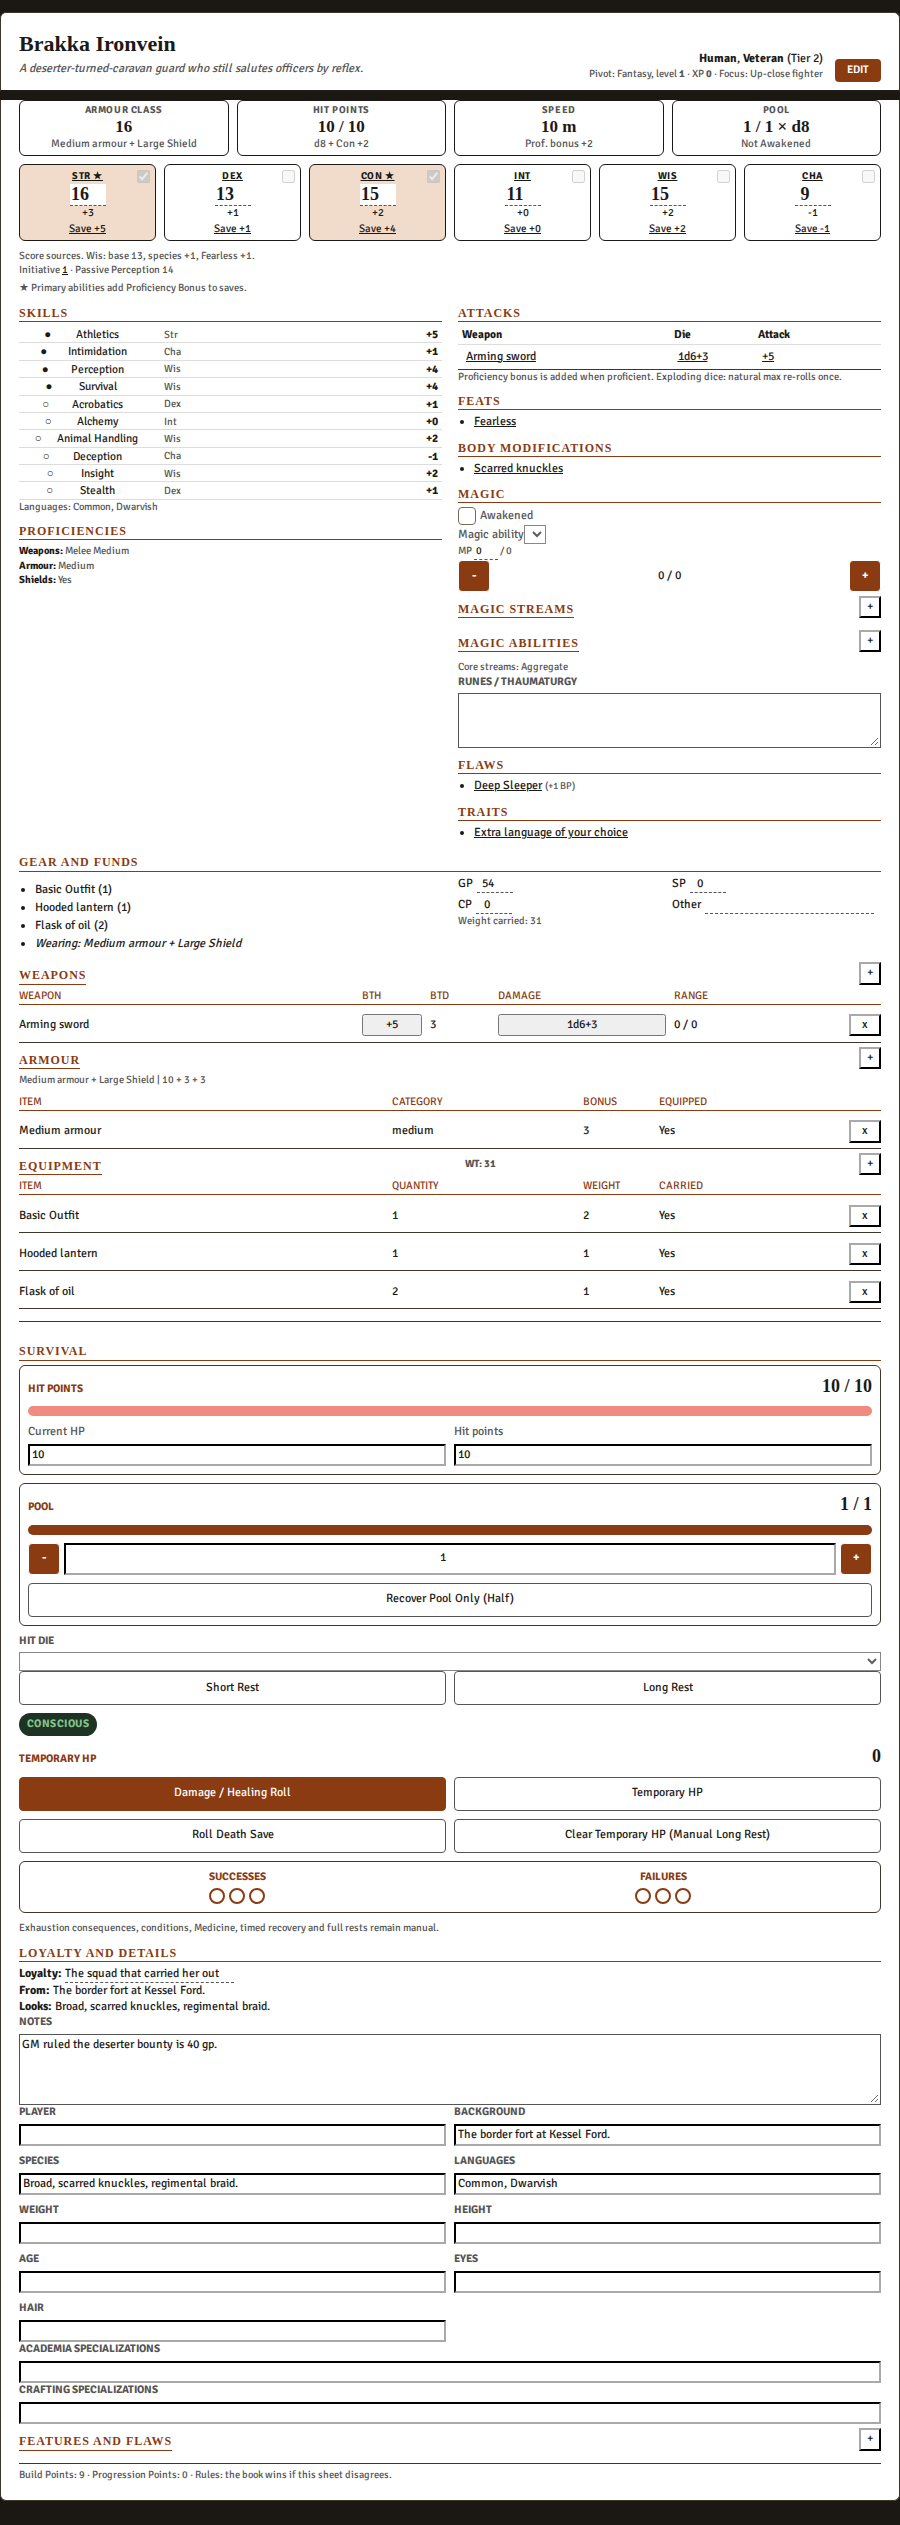
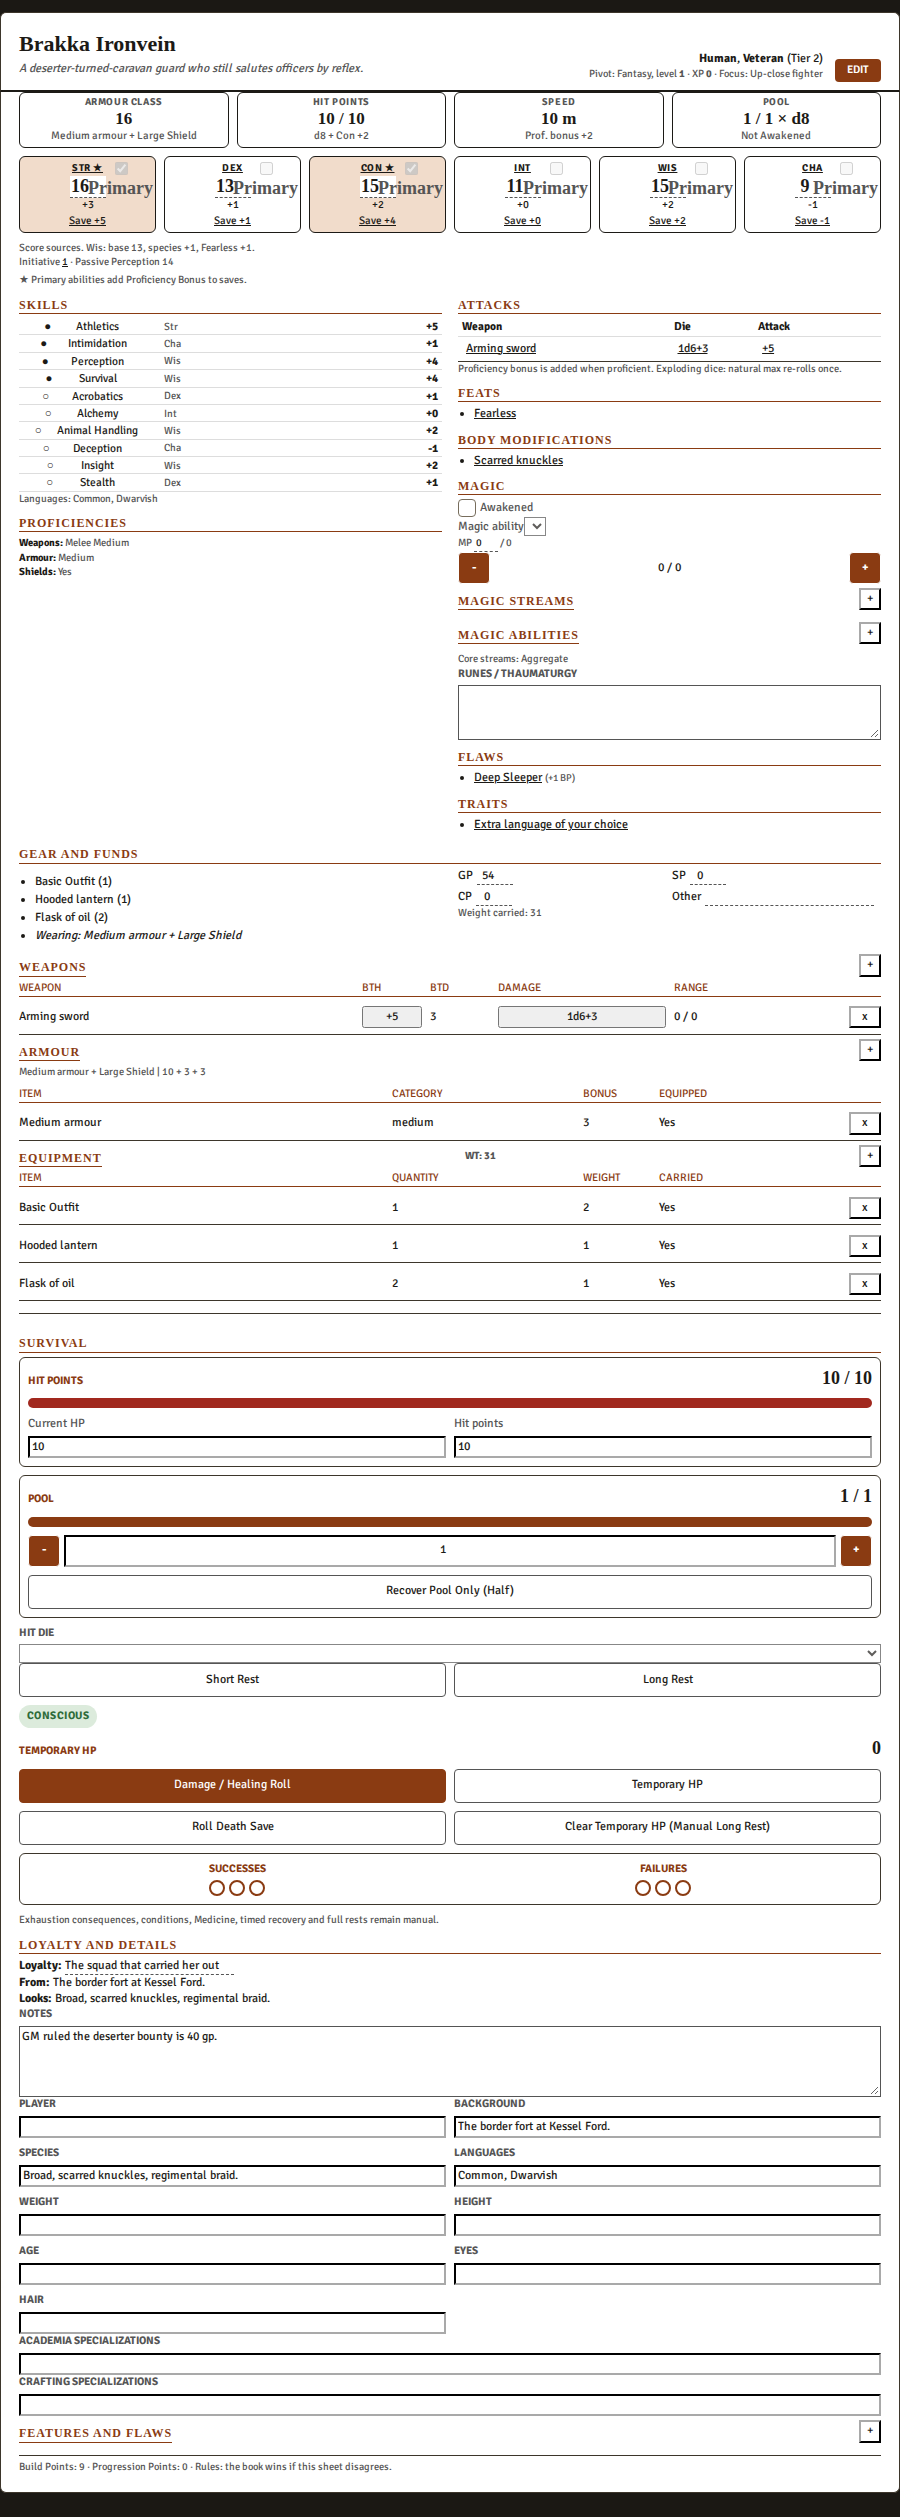
fix: keep the print card one sheet in both themes
The header margin opened a parchment gap between parts. Meter and status colors now stay on the light paper in dark theme, and the skill checkbox stays in the row. Add 640px view and edit screenshots.

diff --git a/styles/pivot-fantasy.css b/styles/pivot-fantasy.css
@@ -1224,6 +1224,10 @@
   margin: 0 0 4px 0;
 }
 
+.pf-sheet .pf-hdr.pf-print-wrap {
+  margin-bottom: 0;
+}
+
 /* View mode read-only text (full contrast) */
 .pf-sheet .pf-name-view {
   font-family: var(--pf-font-display);
@@ -1538,10 +1542,21 @@
   color: var(--pf-sheet-ink);
 }
 
-/* Screen reader only */
-.pf-sheet .pf-sr {
+.pf-sheet .pf-print .pf-check {
+  position: relative;
+}
+
+.pf-sheet .pf-print .pf-check input.pf-sr {
   position: absolute;
-  left: -9999px;
+  width: 1px;
+  height: 1px;
+  margin: -1px;
+  padding: 0;
+  overflow: hidden;
+  clip: rect(0, 0, 0, 0);
+  clip-path: inset(50%);
+  border: 0;
+  white-space: nowrap;
 }
 
 /* Roll buttons in print context */

diff --git a/styles/pf-tokens.css b/styles/pf-tokens.css
@@ -68,6 +68,14 @@
   --pf-panel: var(--pf-sheet-paper);
   --pf-bg: var(--pf-sheet-paper);
   --pf-accent: var(--pf-sheet-accent);
+  --pf-accent-hover: #74310f;
   --pf-accent-soft: var(--pf-sheet-accent-soft);
   --pf-accent-ink: #fff;
+  --pf-chip: #ece3cf;
+  --pf-good: #2f6b3a;
+  --pf-good-soft: #dcebdc;
+  --pf-warn: #8a5e00;
+  --pf-warn-soft: #f6ead0;
+  --pf-bad: #a1281e;
+  --pf-bad-soft: #f5d9d5;
 }
